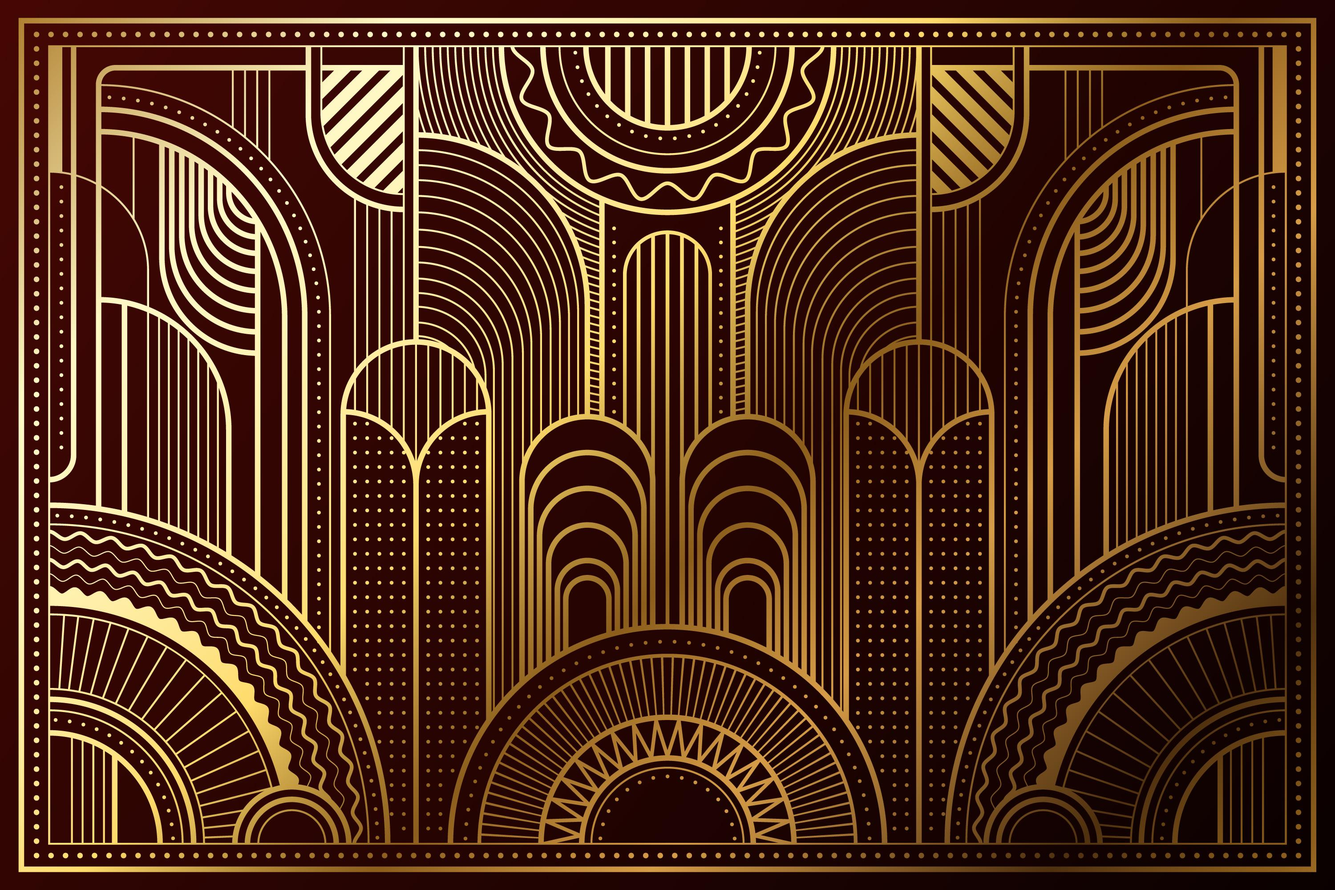
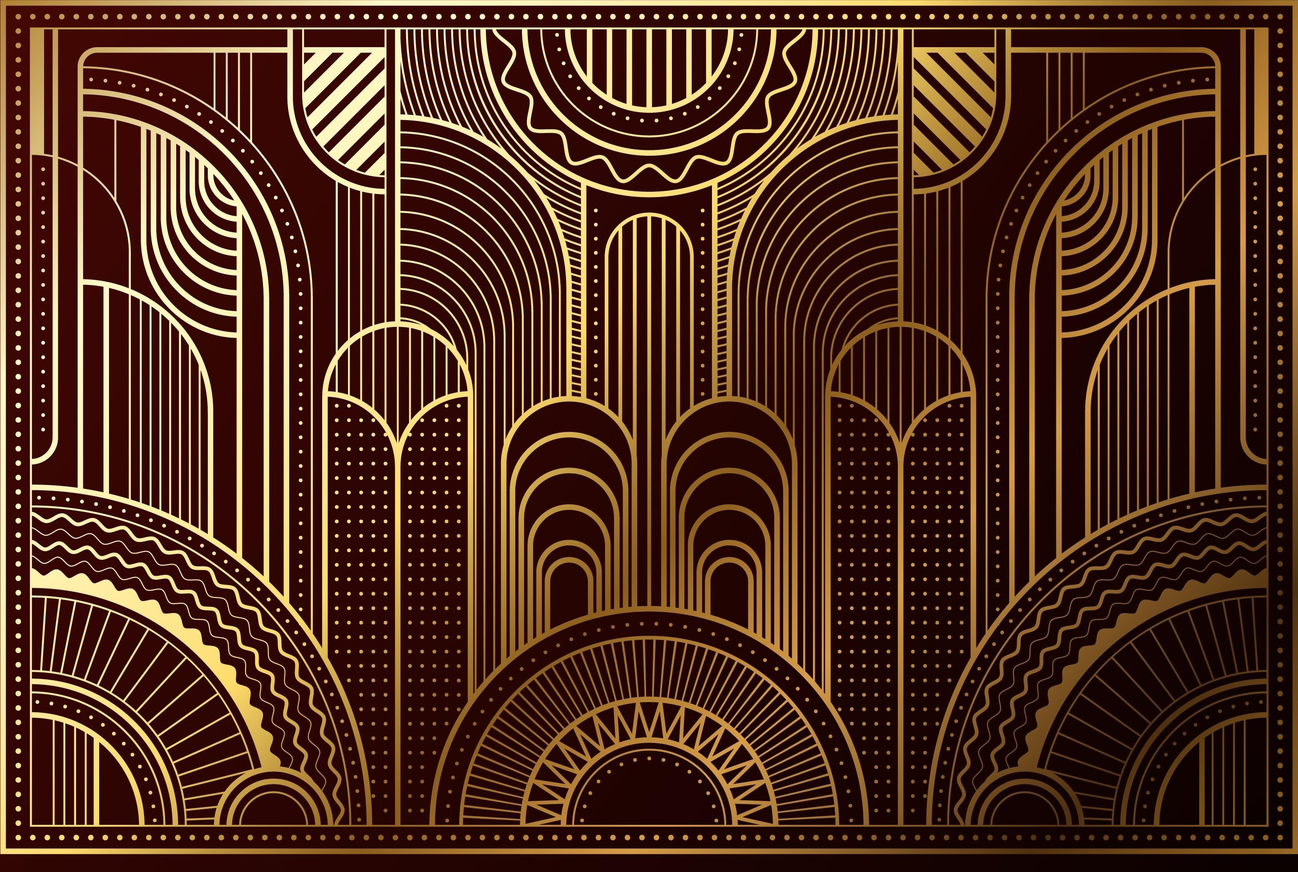
commit

diff --git a/about.html b/about.html
@@ -1,0 +1,112 @@
+<!DOCTYPE html>
+<html lang="uk">
+<head>
+  <meta charset="UTF-8" />
+  <meta name="viewport" content="width=device-width, initial-scale=1.0" />
+  <title>Rating Debates UA</title>
+  <link rel="stylesheet" href="styles.css" />
+</head>
+<body>
+  <div class="wrapper">
+    <header>
+      <h1>RATING DEBATES UA</h1>
+    </header>
+
+    <main>
+      <div class="table-container">
+        </b></p>
+<p><b>Debate Elo System (DES)</b></p>
+<p><b>Організаційні питання:</b></p>
+
+<p>
+Данні беруться з Кішки на домені:
+<a href="https://tab.uadebate.com/" target="_blank">https://tab.uadebate.com/</a>
+</p>
+
+<p>
+До уваги беруться лише турніри з класичними правилами, Fight Club або Ferum cup поза кейсом.
+</p>
+
+<p>
+До теберів та організаторів. Прошу завжди формувати теб з справжніх імен. Для цього робити реєстрацію де учасники окремо вказують прізвище імʼя. 
+Технічні команди називати відповідним чином (тех людина, гравець 1 etc.)
+Також будь ласка заповнюйте все, пів фінали, фінали і т.д.
+</p>
+
+<p>
+В турнірах є тех команди - вони ніяк не впливають на elo.
+</p>
+
+<p><b>Правила відображення в списку:</b></p>
+
+<p>
+Відображаються гравці що зіграли більше 20 ігор за всю історію та ХОЧА б одну гру за попередній рік.
+</p>
+
+<p><b>Elo математика:</b></p>
+
+<p>
+В цілому все було взято звідси:
+<a href="https://monashdebaters.com/introducing-elo-ratings-in-british-parliamentary-debating/" target="_blank">
+https://monashdebaters.com/introducing-elo-ratings-in-british-parliamentary-debating
+</a>
+</p>
+
+<p>
+Якщо коротко, все працює як в шахах.
+</p>
+
+<p>
+<b class="sub">Ситуація 1:</b>
+<br>Гравець A 1500, Гравець B 1500<br>
+У випадку перемоги будь кого з них, одному з них віднімається умовні 20 поінтів а іншому добавляється.
+</p>
+
+<p>
+<b class="sub">Ситуація 2:</b><br>
+Гравець A 1600, Гравець B 2000<br>
+У цьому випадку очікується що гравець B має в 10 разів більше шансів перемогти.<br>
+Якщо він виграє — отримує умовно +2, A -2.<br>
+Якщо A виграє — отримує +40, B -40.
+</p>
+
+<p>
+  <b class="sub">Чому кількість поінтів умовна? Існує K-factor — коефіцієнт зміни elo.</b>
+</p>
+
+<p>
+На початку кількість поінтів що віднімаються або додаються велика (+400, -150 і т.д.), бо K-factor великий.
+Це потрібно для калібрування (перші 8–10 ігор).
+</p>
+
+<p>
+Для відкаліброваних гравців:
+</p>
+
+<p>
+- Низький elo → більший K-factor<br>
+- Високий elo → менший K-factor
+</p>
+
+<p>
+Чому це зроблено:
+</p>
+
+<p>
+- Гравці з низьким elo більш нестабільні<br>
+- Вони можуть швидко покращити рівень<br>
+- Гравці з високим elo грають стабільніше
+</p>
+      </div>
+    </main>
+
+    <footer>
+      © 2026 Lviv Debate Union спільно з Аніме на Аві, Східняцьке Бидло Продакшн та КООП "Озеро"
+        |
+  <a href="index.html">Rating</a>
+    </footer>
+  </div>
+
+  <script src="script.js"></script>
+</body>
+</html>

diff --git a/styles.css b/styles.css
@@ -4,9 +4,7 @@ body {
   margin: 0;
   padding: 0;
   font-family: 'Montserrat', sans-serif;
-  color: #ffd700;
-  background: url('bg1.jpg') no-repeat center center fixed;
-  background-size: 1920px 1080px;
+  color: #ffd700;  
   background-color: black;
   height: 100vh;
   overflow: hidden;
@@ -21,9 +19,16 @@ body {
 
 header {
   text-align: center;
-  background-color: black;
-  padding: 1rem 0;
-  box-shadow: 0 0 30px gold;
+  padding: 1.5rem 0;
+  
+  /* Standard Syntax */
+  background: linear-gradient(to bottom right, #1b0303, #430701, #1b0303);
+  
+  /* Adding a subtle border-bottom to match your gold theme */
+  border-bottom: 1px solid rgba(255, 215, 0, 0.3);
+  
+  /* Keep your shadow for that 'lifted' look */
+  box-shadow: 0 4px 20px rgba(0, 0, 0, 0.8);
 }
 
 header h1 {
@@ -34,11 +39,40 @@ header h1 {
   text-shadow: 0 0 10px #ffe135;
 }
 
+body b {
+  margin: 0;
+  font-size: 1.2rem;
+  color: #ffdf00;
+  letter-spacing: 1px;
+  text-shadow: 0 0 4px #ffe135;
+  display: block;
+  text-align: center;
+}
+
+body b.sub {
+  margin: 0;
+  font-size: 1rem;
+  color: #ffdf00;
+  letter-spacing: 1px;
+  text-shadow: 0 0 3px #ffe135;
+  display: block;
+  text-align: start;
+}
+
 main {
   flex: 1;
   overflow-y: auto;
-  padding-top: 1rem;
+  padding-top: 2.5rem;
   padding-bottom: 1rem;
+
+  
+    background: url('bg1.jpg') no-repeat center top;
+  background-size: cover; 
+  
+  /* Fallback for older mobile browsers that struggle with 'fixed' */
+  -webkit-background-size: cover;
+  -moz-background-size: cover;
+  -o-background-size: cover;
 }
 
 .controls {
@@ -131,16 +165,15 @@ main {
   width: min(1100px, 100%);
   max-height: 80vh;
   margin: auto;
-  
-  /* This allows the header to stick to the top of THIS container */
   overflow-y: auto; 
+  
+  box-sizing: border-box; 
   
   border-radius: 16px;
   background: rgba(18, 18, 18, 0.96);
   border: 1px solid rgba(255, 215, 0, 0.4);
   box-shadow: 0 10px 30px rgba(0, 0, 0, 0.6);
 }
-
 thead th {
   /* This keeps the header at the top while scrolling */
   position: sticky;

diff --git a/index.html b/index.html
@@ -29,6 +29,8 @@
 
     <footer>
       © 2026 Lviv Debate Union спільно з Аніме на Аві, Східняцьке Бидло Продакшн та КООП "Озеро"
+        |
+  <a href="about.html">About</a>
     </footer>
   </div>
 
